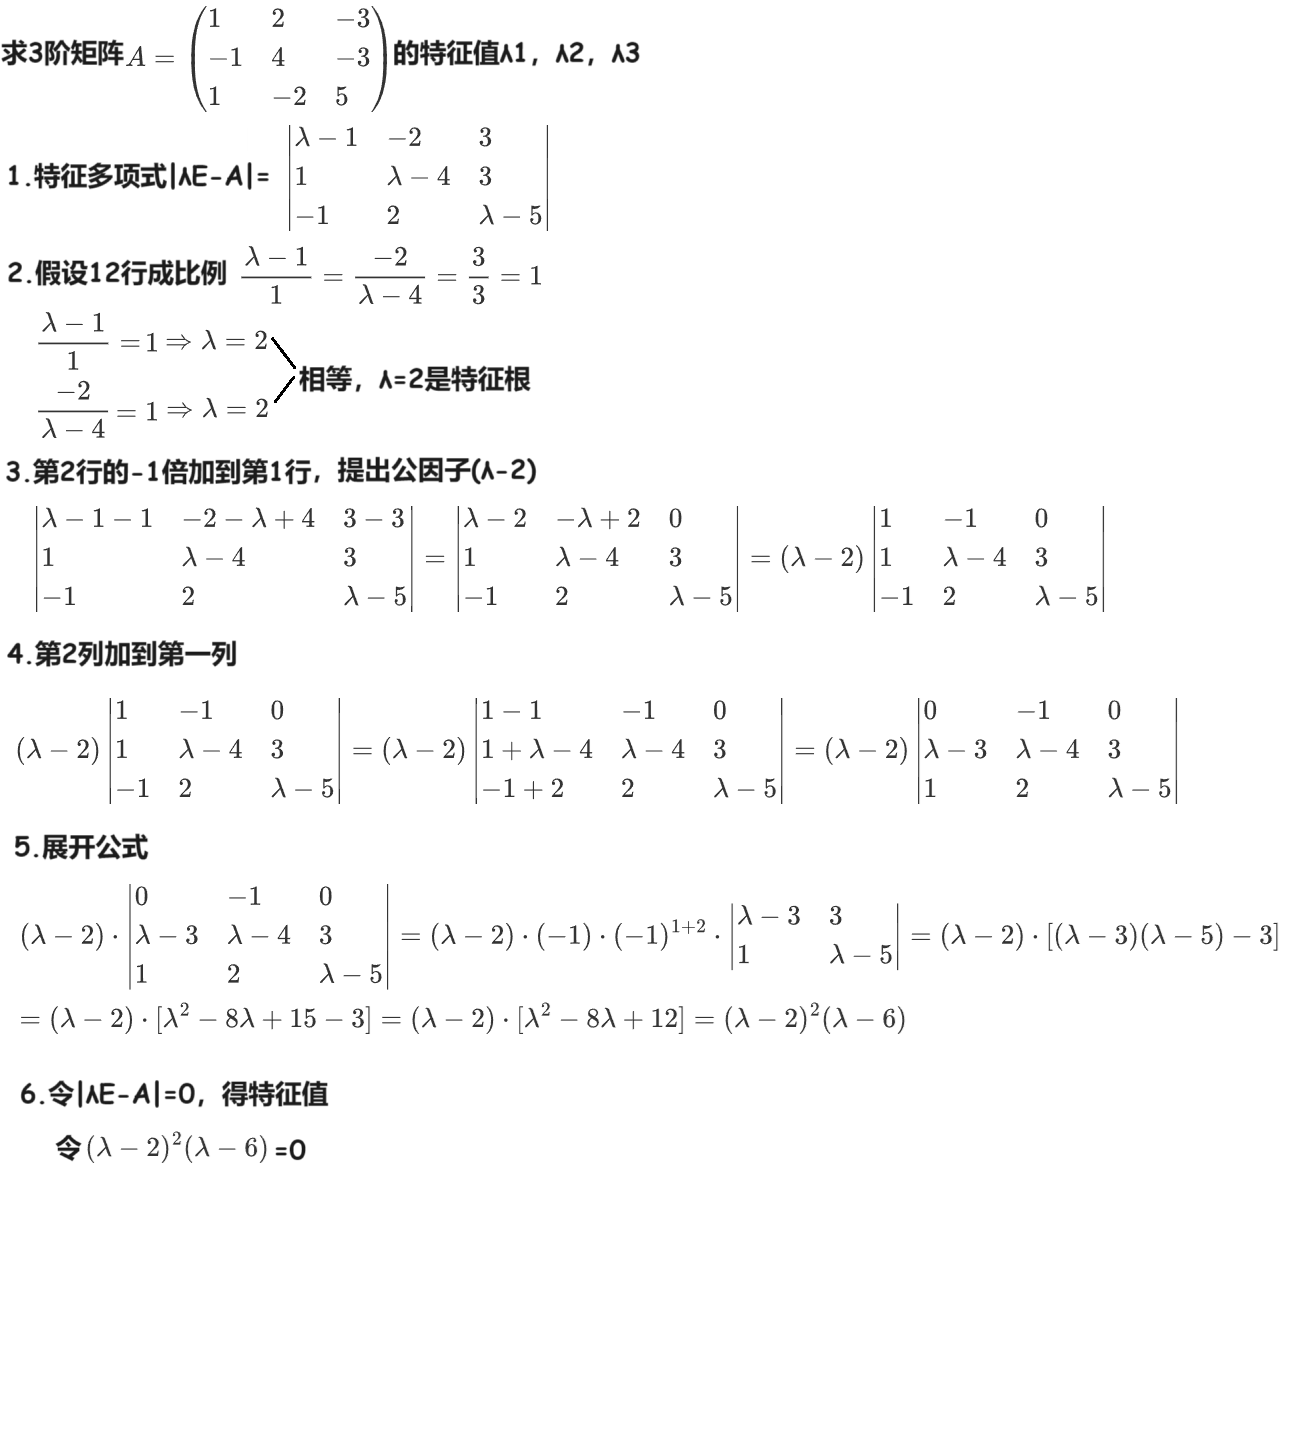
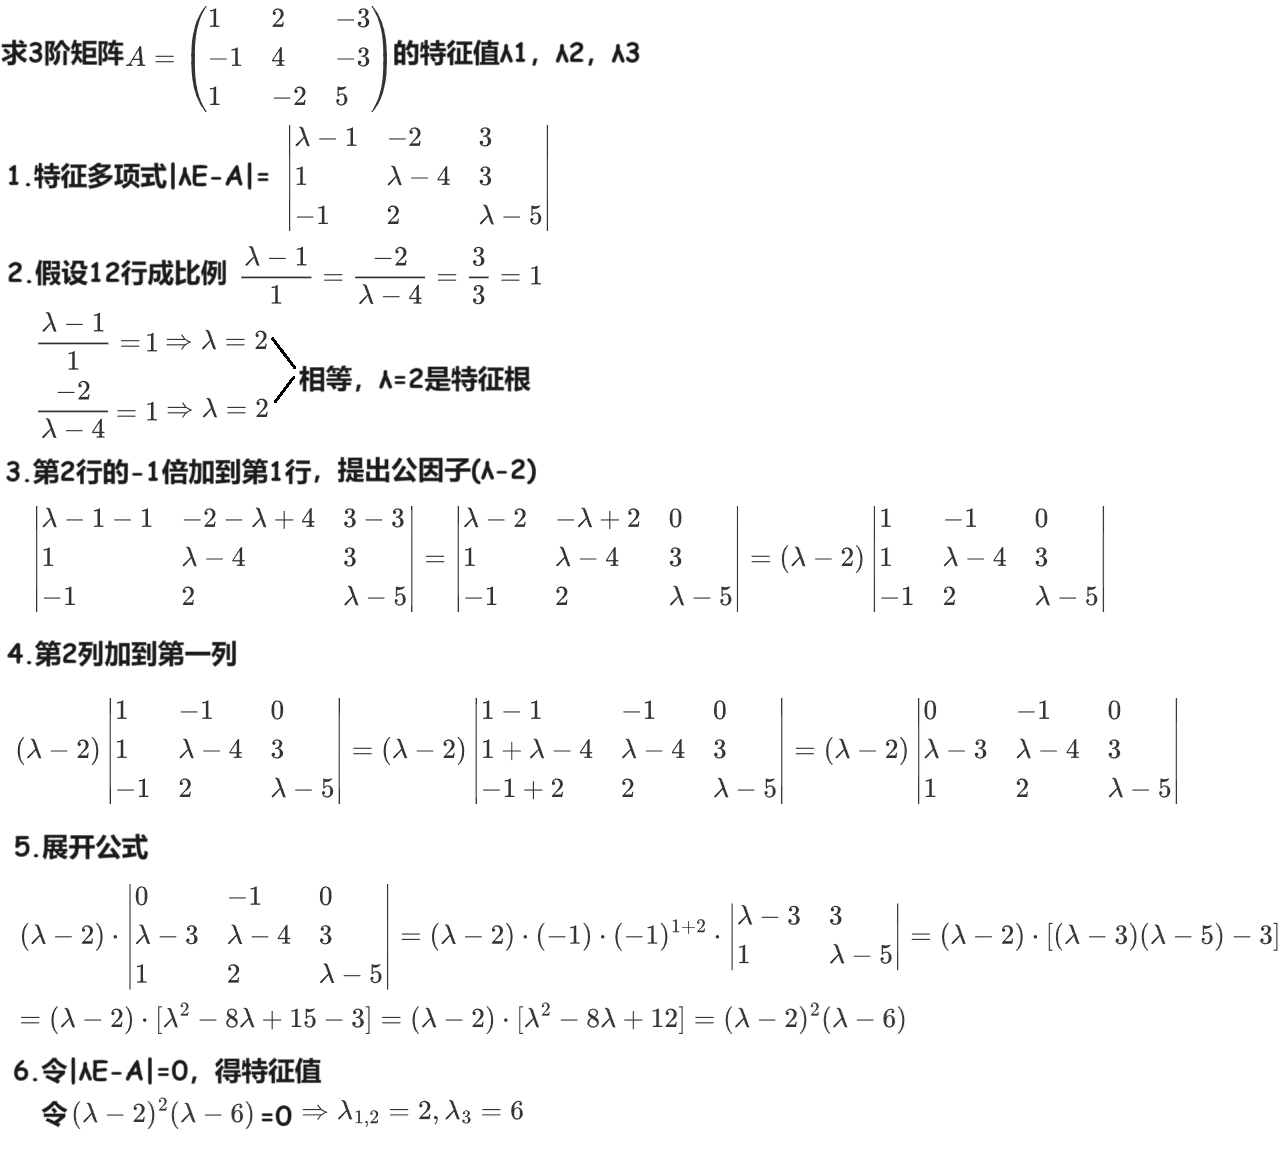
240304

diff --git a/02 线代/01 题集/02 专题/01 特征值和特征向量/01【B站 成大器young】快速求特征值/03 【题集 2】 硬解3阶矩阵特征值/02 硬解3阶矩阵特征值 240304/02 Doc.md b/02 线代/01 题集/02 专题/01 特征值和特征向量/01【B站 成大器young】快速求特征值/03 【题集 2】 硬解3阶矩阵特征值/02 硬解3阶矩阵特征值 240304/02 Doc.md
@@ -6,7 +6,7 @@
 
 # 01 题目
 
-<img src="https://cvp.oss-cn-shanghai.aliyuncs.com/picgo/202403040930220.png" alt="image-20240304093018160" style="zoom:50%;" />
+<img src="https://cvp.oss-cn-shanghai.aliyuncs.com/picgo/202403040930220.png" style="zoom:50%;" />
 
 # 02 答案
 

diff --git a/02 线代/01 题集/02 专题/01 特征值和特征向量/01【B站 成大器young】快速求特征值/01 【题集 4】求矩阵特征值的思路1 假设两行成比例/04 求特征值思路1 假设两行成比例 240304/02 Doc.md b/02 线代/01 题集/02 专题/01 特征值和特征向量/01【B站 成大器young】快速求特征值/01 【题集 4】求矩阵特征值的思路1 假设两行成比例/04 求特征值思路1 假设两行成比例 240304/02 Doc.md
@@ -12,5 +12,5 @@
 
 # 02 答案
 
-
+<img src="https://cvp.oss-cn-shanghai.aliyuncs.com/picgo/202403041014948.png" alt="image-20240304101424803" style="zoom:50%;" />
 
